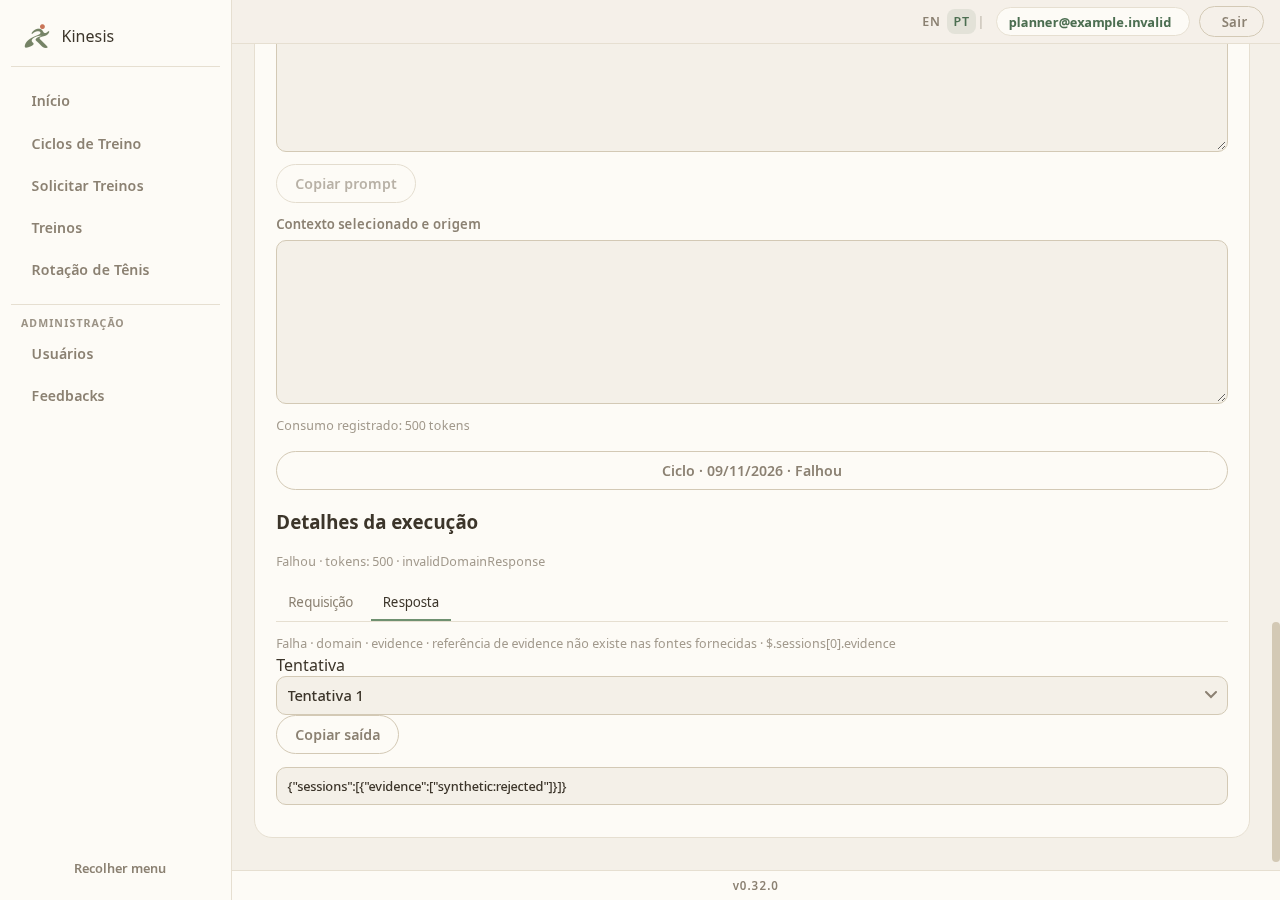
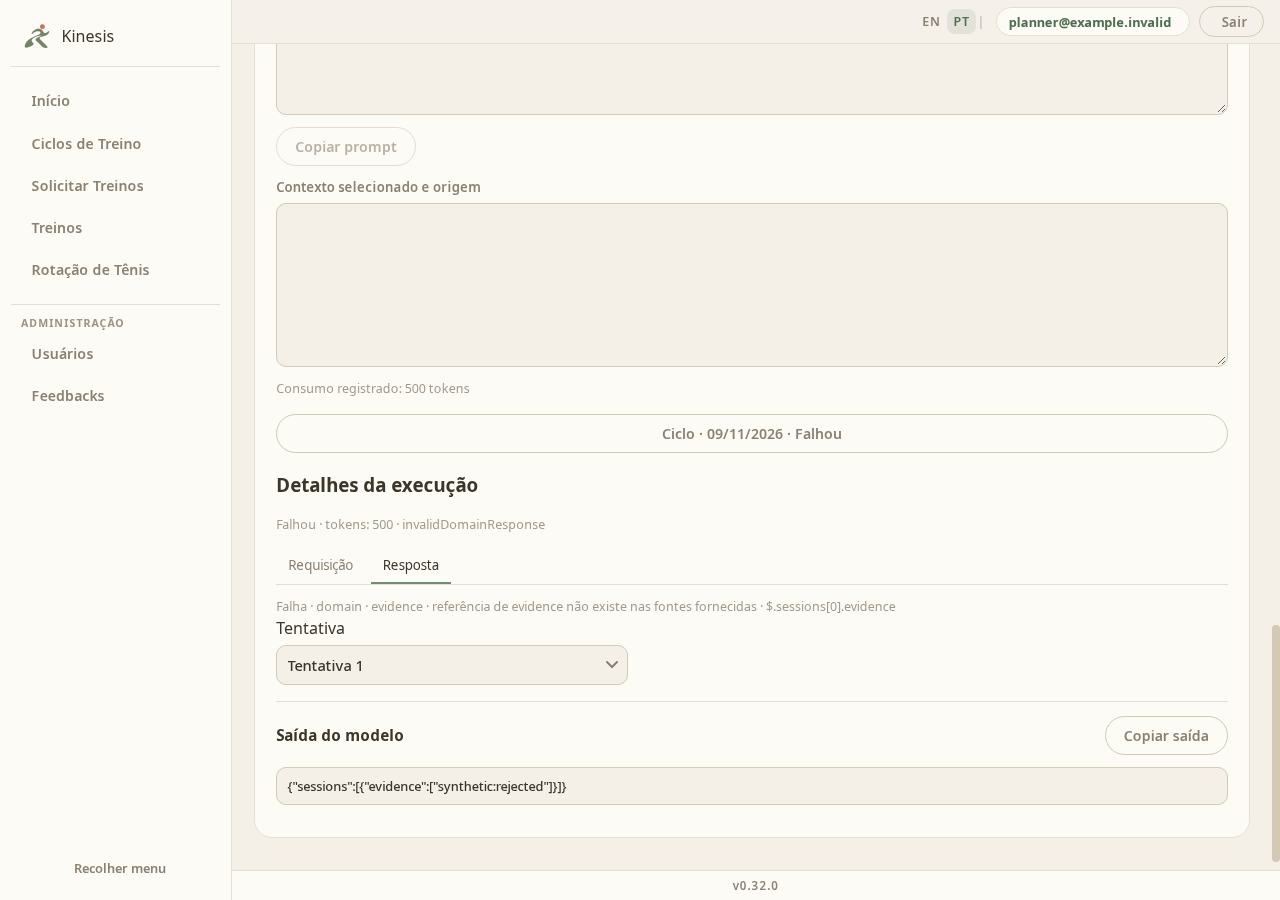
fix: keep trace output scoped to live attempts

diff --git a/test/aiDiagnostics.browser.test.js b/test/aiDiagnostics.browser.test.js
@@ -97,10 +97,35 @@ test('Chrome PT/EN desktop/mobile: authorized execution detail tabs render synth
  const browser=await launchChrome(t);const token=createSession(db,1).token;
  for(const item of [{lang:'pt-BR',width:1280},{lang:'pt-BR',width:390},{lang:'en-US',width:1280},{lang:'en-US',width:390}]){
   await browser.command('Network.setCookie',{name:SESSION_COOKIE_NAME,value:token,url:origin,httpOnly:true});await browser.command('Emulation.setDeviceMetricsOverride',{width:item.width,height:900,deviceScaleFactor:1,mobile:item.width===390});await browser.command('Page.navigate',{url:origin+'/training-memory.html'});await browser.wait("!!document.getElementById('memoryDebug') && !document.getElementById('memoryDebug').hidden");
-  await browser.evaluate(`document.querySelector('.lang-switch [data-lang="${item.lang}"]').click()`);await browser.wait(`document.documentElement.lang==='${item.lang}'`);await browser.evaluate("document.querySelector('#memoryDebug > summary').click()");await browser.wait("document.getElementById('executionList').children.length>0");await browser.evaluate("document.getElementById('executionList').children[0].click()");await browser.wait("!document.getElementById('executionTrace').hidden && document.getElementById('traceOutput').textContent.includes('synthetic:rejected')");
+  await browser.evaluate(`document.querySelector('.lang-switch [data-lang="${item.lang}"]').click()`);await browser.wait(`document.documentElement.lang==='${item.lang}'`);await browser.evaluate("document.querySelector('#memoryDebug > summary').click()");await browser.wait("document.getElementById('executionList').children.length>0");await browser.evaluate("document.getElementById('executionList').children[0].click()");await browser.wait("!document.getElementById('executionTrace').hidden");await browser.evaluate("document.getElementById('traceAttempt').value='1';document.getElementById('traceAttempt').dispatchEvent(new Event('change'))");await browser.wait("document.getElementById('traceOutput').textContent.includes('synthetic:rejected')");
   assert.equal(await browser.evaluate('document.documentElement.scrollWidth>innerWidth'),false);assert.equal(await browser.evaluate("document.getElementById('traceDiagnosis').textContent.includes('$.sessions[0].evidence')"),true);
   await browser.evaluate("document.getElementById('traceResponseTab').click();document.getElementById('executionTrace').scrollIntoView({block:'center'})");await browser.capture(`ai-trace-${item.lang}-${item.width}-response`);assert.equal(await browser.evaluate("document.getElementById('traceAttempt').options.length"),2);await browser.evaluate("document.getElementById('traceAttempt').value='2';document.getElementById('traceAttempt').dispatchEvent(new Event('change'))");assert.equal(await browser.evaluate("document.getElementById('traceOutput').textContent"),'{malformed json');await browser.evaluate("document.getElementById('traceAttempt').value='1';document.getElementById('traceAttempt').dispatchEvent(new Event('change'))");
   await browser.evaluate("document.getElementById('traceResponseTab').focus();document.getElementById('traceResponseTab').dispatchEvent(new KeyboardEvent('keydown',{key:'ArrowLeft',bubbles:true}))");assert.equal(await browser.evaluate("document.getElementById('traceRequestTab').getAttribute('aria-selected')"),'true');assert.equal(await browser.evaluate("document.getElementById('traceRequest').textContent.includes('externalPrompt')"),true);await browser.evaluate("document.getElementById('executionTrace').scrollIntoView({block:'center'})");await browser.capture(`ai-trace-${item.lang}-${item.width}-request`);
   assert.equal(await browser.evaluate('document.activeElement.id'),'traceRequestTab');
  }
+});
+
+test('Chrome: a selected failed attempt in a completed execution keeps its own diagnosis and never borrows the later response',async(t)=>{
+ const db=fixture();const seed=harness(db);const queued=seed.service.enqueue(1,{purpose:'cycle',resource_id:'cycle',idempotency_key:'synthetic-retry-associated-trace'});await complete(seed.service,queued.id);await seed.service.stop();
+ db.prepare("UPDATE ai_executions SET state='completed',response_json=?,error_code=NULL,raw_output_capture_version=1,diagnostics_json=? WHERE id=?").run(JSON.stringify({accepted:'synthetic validated response'}),JSON.stringify([{attempt:1,stage:'domain',code:'invalidDomainResponse',validation:{code:'evidence',path:'$.sessions[0].evidence',reason:'evidence_empty'}},{attempt:2,stage:'completed',code:'completed'}]),queued.id);
+ const app=await buildServer({db,sessionCookieSecure:false,aiConfig:readAiConfig({AI_ENABLED:'true',OPENAI_API_KEY:'synthetic-test-key'})});const origin=await app.listen({port:0,host:'127.0.0.1'});t.after(async()=>{await app.close();db.close();});
+ const browser=await launchChrome(t);await browser.command('Network.setCookie',{name:SESSION_COOKIE_NAME,value:createSession(db,1).token,url:origin,httpOnly:true});await browser.command('Emulation.setDeviceMetricsOverride',{width:390,height:900,deviceScaleFactor:1,mobile:true});await browser.command('Page.navigate',{url:origin+'/training-memory.html'});await browser.wait("!!document.getElementById('memoryDebug') && !document.getElementById('memoryDebug').hidden");await browser.evaluate("document.querySelector('#memoryDebug > summary').click()");await browser.wait("document.getElementById('executionList').children.length>0");await browser.evaluate("document.getElementById('executionList').children[0].click()");await browser.wait("!document.getElementById('executionTrace').hidden");await browser.evaluate("document.getElementById('traceResponseTab').click();document.getElementById('traceAttempt').value='1';document.getElementById('traceAttempt').dispatchEvent(new Event('change'))");
+ const observed=await browser.evaluate("JSON.stringify({diagnosis:document.getElementById('traceDiagnosis').textContent,output:document.getElementById('traceOutput').textContent,copyDisabled:document.getElementById('traceCopy').disabled,title:document.getElementById('traceOutputTitle')?.textContent||null,copyInHeader:!!document.querySelector('.trace-output-header #traceCopy'),scroll:document.documentElement.scrollWidth>innerWidth})");
+ assert.deepEqual(JSON.parse(observed),{diagnosis:'Failed · domain · evidence · the evidence list is empty · $.sessions[0].evidence',output:'This attempt received no output text.',copyDisabled:true,title:'Model output',copyInHeader:true,scroll:false});
+ assert.match(await browser.evaluate("document.getElementById('traceStatus').textContent"),/Completed · tokens: 500/);
+ await browser.evaluate("document.getElementById('traceAttempt').value='2';document.getElementById('traceAttempt').dispatchEvent(new Event('change'))");assert.equal(await browser.evaluate("document.getElementById('traceDiagnosis').textContent"),'Completed');assert.equal(await browser.evaluate("document.getElementById('traceOutput').textContent"),'{\n  "accepted": "synthetic validated response"\n}');assert.equal(await browser.evaluate("document.getElementById('traceCopy').disabled"),false);
+ db.prepare("UPDATE ai_executions SET raw_output_capture_version=0,diagnostics_json='[]' WHERE id=?").run(queued.id);await browser.evaluate("document.getElementById('executionList').children[0].click()");await browser.wait("document.getElementById('traceOutput').textContent==='Legacy trace without captured output.'");assert.equal(await browser.evaluate("document.getElementById('traceCopy').disabled"),true);assert.equal(await browser.evaluate("document.getElementById('traceOutput').textContent.includes('synthetic validated response')"),false);
+});
+
+test('Chrome: an open attempt expires visibly and the copy action rechecks expiry before writing',async(t)=>{
+ const db=fixture();const seed=harness(db);const queued=seed.service.enqueue(1,{purpose:'cycle',resource_id:'cycle',idempotency_key:'synthetic-live-expiry-trace'});await complete(seed.service,queued.id);await seed.service.stop();
+ const raw='{"rejected":"synthetic output"}';const expiry=new Date(Date.now()+60000).toISOString();
+ db.prepare("UPDATE ai_executions SET state='completed',response_json=?,error_code=NULL,raw_output_capture_version=1,diagnostics_json=? WHERE id=?").run(JSON.stringify({accepted:'synthetic validated response'}),JSON.stringify([{attempt:1,stage:'domain',code:'invalidDomainResponse',validation:{code:'evidence',path:'$.sessions[0].evidence'}},{attempt:2,stage:'completed',code:'completed'}]),queued.id);
+ db.prepare('INSERT INTO ai_execution_raw_outputs(execution_id,attempt,output_text,output_bytes,truncated,expired,expires_at) VALUES(?,?,?,?,0,0,?)').run(queued.id,1,raw,Buffer.byteLength(raw),expiry);
+ const app=await buildServer({db,sessionCookieSecure:false,aiConfig:readAiConfig({AI_ENABLED:'true',OPENAI_API_KEY:'synthetic-test-key'})});const origin=await app.listen({port:0,host:'127.0.0.1'});t.after(async()=>{await app.close();db.close();});
+ const browser=await launchChrome(t);await browser.command('Network.setCookie',{name:SESSION_COOKIE_NAME,value:createSession(db,1).token,url:origin,httpOnly:true});await browser.command('Emulation.setDeviceMetricsOverride',{width:1280,height:900,deviceScaleFactor:1,mobile:false});await browser.command('Page.navigate',{url:origin+'/training-memory.html'});await browser.wait("!!document.getElementById('memoryDebug') && !document.getElementById('memoryDebug').hidden");await browser.evaluate("document.querySelector('#memoryDebug > summary').click()");await browser.wait("document.getElementById('executionList').children.length>0");await browser.evaluate("document.getElementById('executionList').children[0].click()");await browser.wait("!document.getElementById('executionTrace').hidden");
+ await browser.evaluate("document.getElementById('traceResponseTab').click();document.getElementById('traceAttempt').value='1';document.getElementById('traceAttempt').dispatchEvent(new Event('change'));window.__traceCopies=[];Object.defineProperty(navigator,'clipboard',{configurable:true,value:{writeText:async(text)=>window.__traceCopies.push(text)}})");
+ assert.equal(await browser.evaluate("document.getElementById('traceOutput').textContent"),raw);assert.equal(await browser.evaluate("document.getElementById('traceCopy').disabled"),false);await browser.evaluate("document.getElementById('traceCopy').click()");await browser.wait("window.__traceCopies.length===1");assert.equal(await browser.evaluate('window.__traceCopies[0]'),raw);
+ await browser.evaluate("window.__traceDateNow=Date.now.bind(Date);Date.now=()=>window.__traceDateNow()+65000;document.getElementById('traceCopy').click()");assert.equal(await browser.evaluate("document.getElementById('traceOutput').textContent"),'Captured output has expired.');assert.equal(await browser.evaluate("document.getElementById('traceCopy').disabled"),true);assert.equal(await browser.evaluate('window.__traceCopies.length'),1);
+ await browser.evaluate("document.getElementById('traceAttempt').value='2';document.getElementById('traceAttempt').dispatchEvent(new Event('change'))");assert.equal(await browser.evaluate("document.getElementById('traceOutput').textContent"),'{\n  "accepted": "synthetic validated response"\n}');assert.equal(await browser.evaluate("document.getElementById('traceCopy').disabled"),false);
 });

diff --git a/src/public/training-memory.js b/src/public/training-memory.js
@@ -34,6 +34,7 @@ async function initMemory() {
   const debugLabels = [];
   let selectedTrace=null;
   let refreshTraceLabels=()=>{};
+  let traceExpiryTimer=null;
   let refreshResources = () => {};
   if (user.role !== 'admin') $('memoryDebug').remove();
   else $('memoryDebug').hidden = false;
@@ -457,8 +458,11 @@ async function initMemory() {
             $('traceRequest').textContent=JSON.stringify(request,null,2);
             $('traceStatus').textContent=`${t(`executionStates.${result.state}`)} · ${t('tokens')}: ${result.usage?.input+result.usage?.output || 0} · ${result.error || t('trace.noError')}`;
             const select=$('traceAttempt');select.replaceChildren();
-            for(const item of result.diagnostics||[]){const option=document.createElement('option');option.value=String(item.attempt);option.textContent=`${t('trace.attempt')} ${item.attempt}`;select.append(option);}
+            const attempts=[...new Set([...(result.diagnostics||[]).map(item=>item.attempt),...(result.rawOutputs||[]).map(item=>item.attempt)])].sort((a,b)=>a-b);
+            for(const attempt of attempts){const option=document.createElement('option');option.value=String(attempt);option.textContent=`${t('trace.attempt')} ${attempt}`;select.append(option);}
             if(!select.options.length){const option=document.createElement('option');option.value='';option.textContent=t('trace.noAttempt');select.append(option);}
+            else select.value=String(attempts.at(-1));
+            $('traceRequestTab').click();
             renderTrace();$('executionTrace').hidden=false;
           } catch (e) {
             error(e);
@@ -470,23 +474,38 @@ async function initMemory() {
       error(e);
     }
     function renderTrace(){
-      const attempt=Number($('traceAttempt').value);const diagnostic=selectedTrace?.diagnostics?.find(item=>item.attempt===attempt);const raw=selectedTrace?.rawOutputs?.find(item=>item.attempt===attempt);
-      const validation=diagnostic?.validation;
-      const parsing=diagnostic?.parse;
+      clearTimeout(traceExpiryTimer);
+      if(!selectedTrace)return;
+      const attempt=Number($('traceAttempt').value);const diagnostic=selectedTrace.diagnostics?.find(item=>item.attempt===attempt);const raw=selectedTrace.rawOutputs?.find(item=>item.attempt===attempt);
+      const successful=diagnostic?.stage==='completed'&&diagnostic.code==='completed'&&selectedTrace.response!==null&&selectedTrace.response!==undefined;
+      const expired=Boolean(raw)&&(raw.expired===1||!Number.isFinite(Date.parse(raw.expires_at))||Date.parse(raw.expires_at)<=Date.now());
+      const validation=diagnostic?.validation;const parsing=diagnostic?.parse;
       const reason=validation?.reason?t(`trace.reasons.${validation.reason}`):parsing?.code?t(`trace.reasons.${parsing.code}`):'';
-      const summary=selectedTrace?.state==='completed'?t('trace.completed'):[t('trace.failed'),diagnostic?.stage||'—',validation?.code||parsing?.code||selectedTrace?.error||'—',reason,validation?.path||parsing?.path||''].filter(Boolean).join(' · ');
-      $('traceDiagnosis').textContent=summary;
-      $('traceCopy').disabled=(!raw && !(selectedTrace?.state==='completed' && selectedTrace.response)) || raw?.expired;
-      if(raw?.expired || (raw && Date.parse(raw.expires_at)<=Date.now()))$('traceOutput').textContent=t('trace.expired');
-      else if(raw){$('traceOutput').textContent=raw.output_text+(raw.truncated?`\n\n${t('trace.truncated')}`:'');}
-      else if(selectedTrace?.state==='completed' && selectedTrace.response)$('traceOutput').textContent=JSON.stringify(selectedTrace.response,null,2);
-      else $('traceOutput').textContent=selectedTrace?.rawOutputCaptureVersion===0?t('trace.legacy'):t('trace.noOutput');
+      const status=successful?t(`executionStates.completed`):diagnostic?t('trace.failed'):t('trace.noAttemptInfo');
+      const stage=diagnostic?.stage==='completed'?'':diagnostic?.stage||'';
+      const code=validation?.code||parsing?.code||(diagnostic?.code==='completed'?'':diagnostic?.code||'');
+      const details=[status,stage,code,reason,validation?.path||parsing?.path||''].filter(Boolean);
+      $('traceDiagnosis').textContent=details.join(' · ');
+      let outputText=null;
+      if(raw&&expired)outputText=t('trace.expired');
+      else if(raw&&typeof raw.output_text==='string')outputText=raw.output_text+(raw.truncated?`\n\n${t('trace.truncated')}`:'');
+      else if(!raw&&successful)outputText=JSON.stringify(selectedTrace.response,null,2);
+      else if(!raw&&selectedTrace.rawOutputCaptureVersion===0)outputText=t('trace.legacy');
+      else outputText=t('trace.noOutput');
+      $('traceOutput').textContent=outputText;
+      $('traceCopy').disabled=Boolean(expired)||(raw?typeof raw.output_text!=='string':!successful);
+      if(raw&&!expired){
+        const remaining=Date.parse(raw.expires_at)-Date.now();
+        traceExpiryTimer=setTimeout(renderTrace,Math.max(1,remaining+1));
+      }
     }
-    refreshTraceLabels=()=>{if(!selectedTrace)return;$('traceStatus').textContent=`${t(`executionStates.${selectedTrace.state}`)} · ${t('tokens')}: ${selectedTrace.usage?.input+selectedTrace.usage?.output || 0} · ${selectedTrace.error || t('trace.noError')}`;for(const option of $('traceAttempt').options)if(option.value)option.textContent=`${t('trace.attempt')} ${option.value}`;renderTrace();};
+    refreshTraceLabels=()=>{if(!selectedTrace)return;$('traceStatus').textContent=`${t(`executionStates.${selectedTrace.state}`)} · ${t('tokens')}: ${selectedTrace.usage?.input+selectedTrace.usage?.output || 0}`;for(const option of $('traceAttempt').options)if(option.value)option.textContent=`${t('trace.attempt')} ${option.value}`;renderTrace();};
     $('traceAttempt').addEventListener('change',renderTrace);
     for(const [selected,other,panel,otherPanel] of [['traceRequestTab','traceResponseTab','traceRequestPanel','traceResponsePanel'],['traceResponseTab','traceRequestTab','traceResponsePanel','traceRequestPanel']])$(selected).addEventListener('click',()=>{$(selected).setAttribute('aria-selected','true');$(selected).removeAttribute('tabindex');$(other).setAttribute('aria-selected','false');$(other).tabIndex=-1;$(panel).hidden=false;$(otherPanel).hidden=true;});
     for(const id of ['traceRequestTab','traceResponseTab'])$(id).addEventListener('keydown',event=>{if(event.key==='ArrowRight'||event.key==='ArrowLeft'){event.preventDefault();const target=id==='traceRequestTab'?'traceResponseTab':'traceRequestTab';$(target).focus();$(target).click();}});
-    $('traceCopy').addEventListener('click',async()=>{const raw=selectedTrace?.rawOutputs?.find(item=>item.attempt===Number($('traceAttempt').value));const copy=raw?.output_text ?? (selectedTrace?.state==='completed'?JSON.stringify(selectedTrace.response,null,2):null);if(copy)try{await navigator.clipboard.writeText(copy);showShellToast(i18n.messages,'memory.trace.copied');}catch{error(new Error());}});
+    $('traceCopy').addEventListener('click',async()=>{const attempt=Number($('traceAttempt').value);const diagnostic=selectedTrace?.diagnostics?.find(item=>item.attempt===attempt);const raw=selectedTrace?.rawOutputs?.find(item=>item.attempt===attempt);const successful=diagnostic?.stage==='completed'&&diagnostic.code==='completed'&&selectedTrace?.response!==null&&selectedTrace?.response!==undefined;const expired=Boolean(raw)&&(raw.expired===1||!Number.isFinite(Date.parse(raw.expires_at))||Date.parse(raw.expires_at)<=Date.now());if(expired){renderTrace();return;}const copy=raw?(typeof raw.output_text==='string'?raw.output_text:null):successful?JSON.stringify(selectedTrace.response,null,2):null;if(typeof copy!=='string')return;try{await navigator.clipboard.writeText(copy);showShellToast(i18n.messages,'memory.trace.copied');}catch{error(new Error());}});
+    const refreshVisibleTrace=()=>{if(!document.hidden)renderTrace();};
+    document.addEventListener('visibilitychange',refreshVisibleTrace);window.addEventListener('focus',refreshVisibleTrace);
     controls();
   }
   document.addEventListener('kinesis:preferences-changed', () => { if (memory) renderOverview(); });

diff --git a/test/aiFoundation.test.js b/test/aiFoundation.test.js
@@ -18,7 +18,7 @@ const {
   contextIsCurrent,
   duration,
 } = require('../src/ai/context');
-const { createExecutionService } = require('../src/ai/executions');
+const { createExecutionService, truncateUtf8Text } = require('../src/ai/executions');
 const { getAvailabilitySnapshot } = require('../src/availability');
 const { renderPrompt } = require('../src/ai/prompt-service');
 const { createResponsesClient, buildPayload } = require('../src/ai/client');
@@ -664,9 +664,19 @@ test('failed domain output is captured privately per attempt, bounded, expiring,
   await retry.stop();fixture.db.close();
   const boundedFixture=setup();const boundedService=service(boundedFixture,{operations:{analysis:invalid},client:async()=>({value:{},outputText:huge,error:null,usage:null})});
   const bounded=boundedService.enqueue(1,body);await wait(boundedService,1,bounded.id);
-  const output=boundedService.get(1,bounded.id,true).rawOutputs[0];assert.equal(output.output_bytes,Buffer.byteLength(huge));assert.equal(Buffer.byteLength(output.output_text)<=65536,true);assert.equal(output.truncated,1);assert.doesNotThrow(()=>JSON.parse(JSON.stringify(output.output_text)));
-  boundedFixture.db.prepare('UPDATE ai_execution_raw_outputs SET expires_at=?').run('2026-10-13T00:00:00.000Z');boundedService.cleanup();const expired=boundedService.get(1,bounded.id,true).rawOutputs[0];assert.equal(expired.expired,1);assert.equal(expired.output_text,null);assert.equal(expired.output_bytes,Buffer.byteLength(huge));
+  const output=boundedService.get(1,bounded.id,true).rawOutputs[0];assert.equal(output.output_bytes,Buffer.byteLength(huge));assert.equal(Buffer.byteLength(output.output_text)<=65536,true);assert.equal(output.truncated,1);assert.equal(boundedService.get(1,bounded.id).state,'failed');assert.doesNotThrow(()=>JSON.parse(JSON.stringify(output.output_text)));
+  boundedFixture.db.prepare('UPDATE ai_execution_raw_outputs SET expires_at=?').run('2026-10-14T12:00:00.000Z');const beforeCleanup=boundedService.get(1,bounded.id,true).rawOutputs[0];assert.equal(beforeCleanup.expired,1);assert.equal(beforeCleanup.output_text,null);assert.equal(beforeCleanup.output_bytes,Buffer.byteLength(huge));
+  boundedService.cleanup();const expired=boundedService.get(1,bounded.id,true).rawOutputs[0];assert.equal(expired.expired,1);assert.equal(expired.output_text,null);assert.equal(expired.output_bytes,Buffer.byteLength(huge));
   await boundedService.stop();boundedFixture.db.close();
+});
+test('UTF-8 output truncation is linear, preserves ASCII prefixes and stops before split multibyte characters',()=>{
+  const maximum=65536;
+  const ascii=truncateUtf8Text('a'.repeat(80000),maximum);
+  assert.equal(ascii.text,'a'.repeat(maximum));assert.equal(ascii.outputBytes,80000);assert.equal(ascii.truncated,1);
+  const boundary=truncateUtf8Text('a'.repeat(maximum-1)+'éz',maximum);
+  assert.equal(boundary.text,'a'.repeat(maximum-1));assert.equal(Buffer.byteLength(boundary.text),maximum-1);assert.equal(boundary.outputBytes,maximum+2);assert.equal(boundary.truncated,1);
+  const exact=truncateUtf8Text('é'.repeat(maximum/2),maximum);
+  assert.equal(exact.text,'é'.repeat(maximum/2));assert.equal(exact.outputBytes,maximum);assert.equal(exact.truncated,0);
 });
 test('queue rejects disabled or unregistered phases, malformed requests and every quota dimension', async () => {
   const fixture = setup();

diff --git a/src/ai/executions.js b/src/ai/executions.js
@@ -14,6 +14,20 @@ const { RATES } = require('./config');
 const { buildPayload, createResponsesClient } = require('./client');
 const { retryDelayMs } = require('./retry-policy');
 const TERMINAL = ['completed', 'failed', 'uncertain', 'cancelled', 'outdated'];
+function truncateUtf8Text(value, maxBytes) {
+  const outputBytes = Buffer.byteLength(value, 'utf8');
+  if (outputBytes <= maxBytes)
+    return { text: value, outputBytes, truncated: 0 };
+  const characters = [];
+  let capturedBytes = 0;
+  for (const character of value) {
+    const characterBytes = Buffer.byteLength(character, 'utf8');
+    if (capturedBytes + characterBytes > maxBytes) break;
+    characters.push(character);
+    capturedBytes += characterBytes;
+  }
+  return { text: characters.join(''), outputBytes, truncated: 1 };
+}
 function createExecutionService({
   db,
   config,
@@ -103,7 +117,11 @@ function createExecutionService({
         reservedTokens: row.reserved_tokens,
         reservedCostUsd: row.reserved_cost,
         rawOutputCaptureVersion: row.raw_output_capture_version || 0,
-        rawOutputs: db.prepare('SELECT attempt,output_text,output_bytes,truncated,expired,expires_at FROM ai_execution_raw_outputs WHERE execution_id=? ORDER BY attempt').all(row.id),
+        rawOutputs: db.prepare('SELECT attempt,output_text,output_bytes,truncated,expired,expires_at FROM ai_execution_raw_outputs WHERE execution_id=? ORDER BY attempt').all(row.id).map((output) => {
+          const expiresAt = Date.parse(output.expires_at);
+          const expired = output.expired === 1 || !Number.isFinite(expiresAt) || expiresAt <= Date.parse(now());
+          return expired ? { ...output, output_text: null, expired: 1 } : output;
+        }),
       });
     return result;
   }
@@ -666,20 +684,10 @@ function createExecutionService({
         db.prepare('UPDATE ai_executions SET raw_output_capture_version=1 WHERE id=?').run(id);
         if (typeof response.outputText !== 'string') throw new Error('no output text');
         const maxBytes = 65536;
-        let text = response.outputText;
-        let bytes = Buffer.byteLength(text, 'utf8');
-        let truncated = 0;
-        if (bytes > maxBytes) {
-          let bounded = '';
-          for (const character of text) {
-            if (Buffer.byteLength(bounded + character, 'utf8') > maxBytes) break;
-            bounded += character;
-          }
-          text = bounded; truncated = 1;
-        }
+        const { text, outputBytes, truncated } = truncateUtf8Text(response.outputText, maxBytes);
         const expiresAt = new Date(Date.parse(now()) + 2 * 86400000).toISOString();
         db.prepare(`INSERT OR REPLACE INTO ai_execution_raw_outputs(execution_id,attempt,output_text,output_bytes,truncated,expires_at) VALUES(?,?,?,?,?,?)`)
-          .run(id, row.attempts, text, bytes, truncated, expiresAt);
+          .run(id, row.attempts, text, outputBytes, truncated, expiresAt);
       } catch { /* Auxiliary capture must not change the execution classification. */ }
     }
     try {
@@ -810,4 +818,4 @@ function createExecutionService({
     dispatch,
   };
 }
-module.exports = { createExecutionService, TERMINAL };
+module.exports = { createExecutionService, TERMINAL, truncateUtf8Text };

diff --git a/src/public/training-memory.html b/src/public/training-memory.html
@@ -57,8 +57,9 @@
       </div>
       <section id="traceRequestPanel" role="tabpanel" aria-labelledby="traceRequestTab"><pre id="traceRequest" class="prompt-textarea"></pre></section>
       <section id="traceResponsePanel" role="tabpanel" aria-labelledby="traceResponseTab" hidden>
-        <p id="traceDiagnosis" class="field-hint"></p><label for="traceAttempt" data-i18n="memory.trace.attempt">Attempt</label>
-        <select id="traceAttempt"></select><button id="traceCopy" type="button" class="btn-secondary" data-i18n="memory.trace.copy">Copy output</button>
+        <p id="traceDiagnosis" class="field-hint"></p>
+        <div class="trace-attempt-controls"><label for="traceAttempt" data-i18n="memory.trace.attempt">Attempt</label><select id="traceAttempt"></select></div>
+        <div class="trace-output-header"><h4 id="traceOutputTitle" data-i18n="memory.trace.outputTitle">Model output</h4><button id="traceCopy" type="button" class="btn-secondary" data-i18n="memory.trace.copy">Copy output</button></div>
         <pre id="traceOutput" class="prompt-textarea trace-output" tabindex="0"></pre>
       </section>
     </section>

diff --git a/src/public/training-memory.css b/src/public/training-memory.css
@@ -85,3 +85,8 @@
 #traceRequest { max-height:18rem; overflow:auto; white-space:pre-wrap; overflow-wrap:anywhere; }
 .memory-trace,#traceResponsePanel { min-width:0; }
 #traceDiagnosis,#traceStatus { overflow-wrap:anywhere; }
+.trace-attempt-controls { display:grid; gap:.4rem; max-width:22rem; }
+.trace-output-header { display:flex; align-items:center; justify-content:space-between; gap:.875rem; border-top:1px solid var(--line); margin-top:1rem; padding-top:.875rem; }
+.trace-output-header h4 { margin:0; font-size:.95rem; }
+.trace-output-header button { flex:0 0 auto; }
+@media (max-width:560px) { .trace-output-header { flex-wrap:wrap; gap:.875rem; } }
